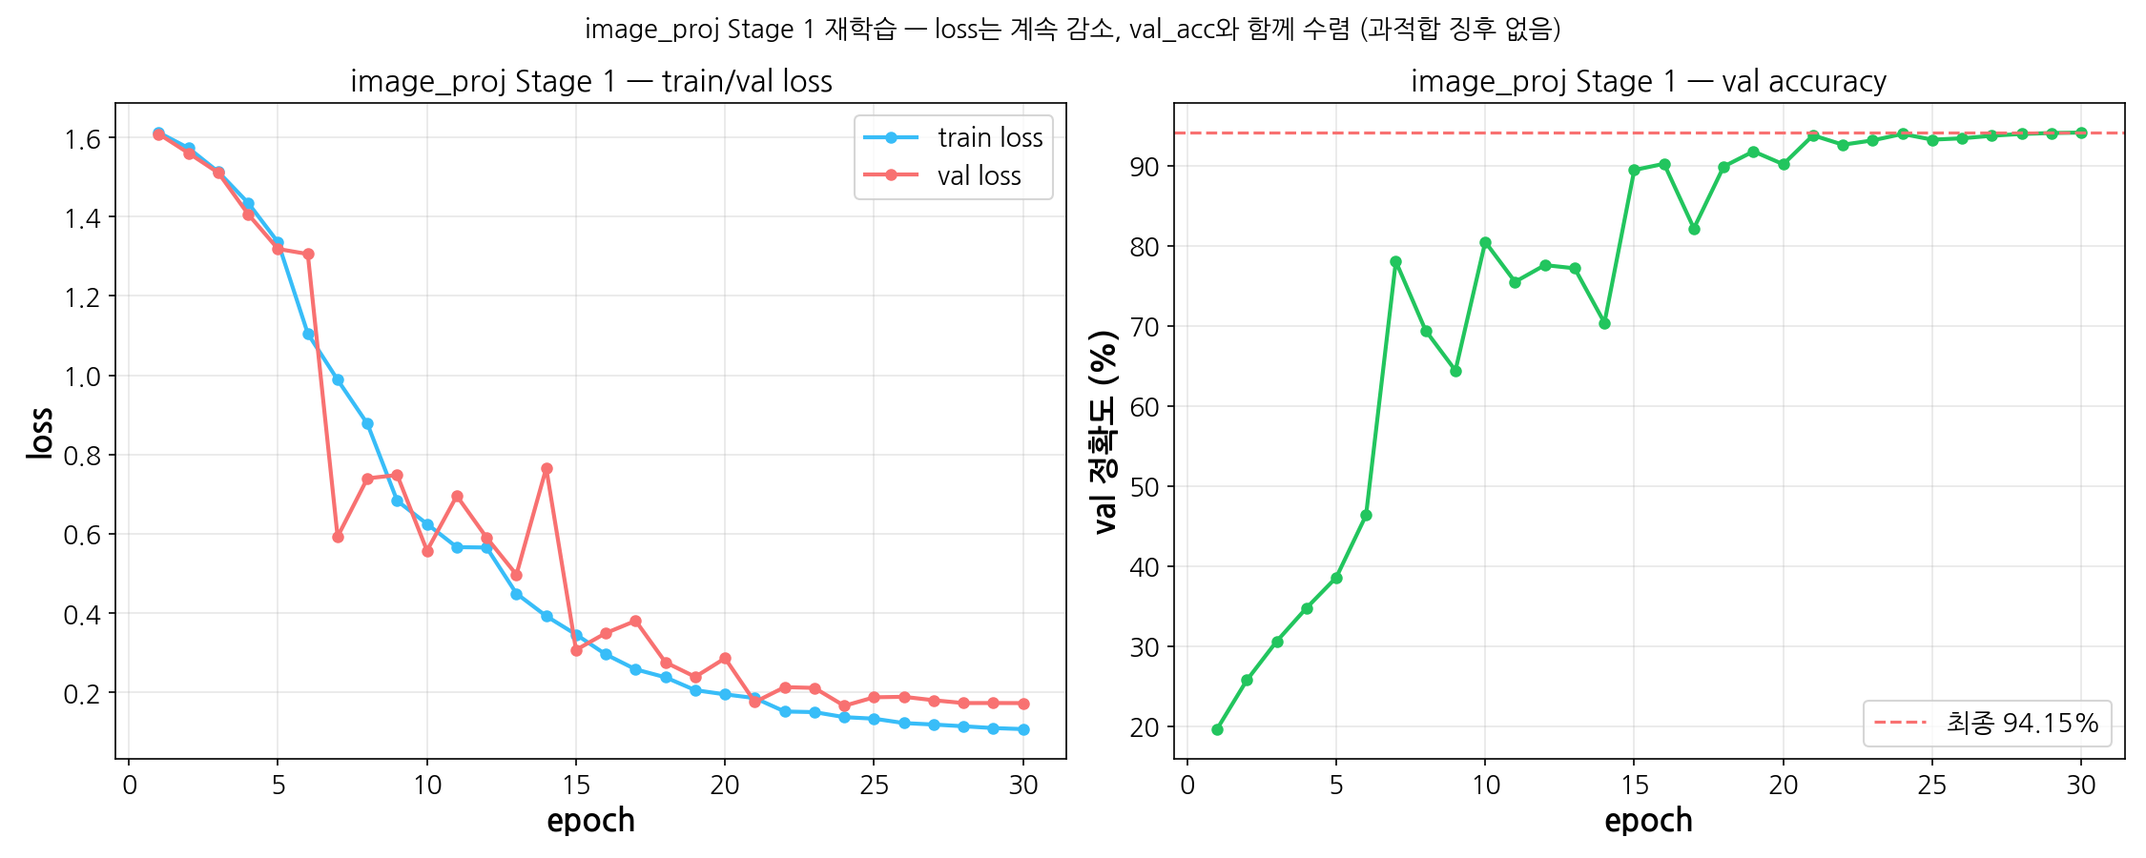
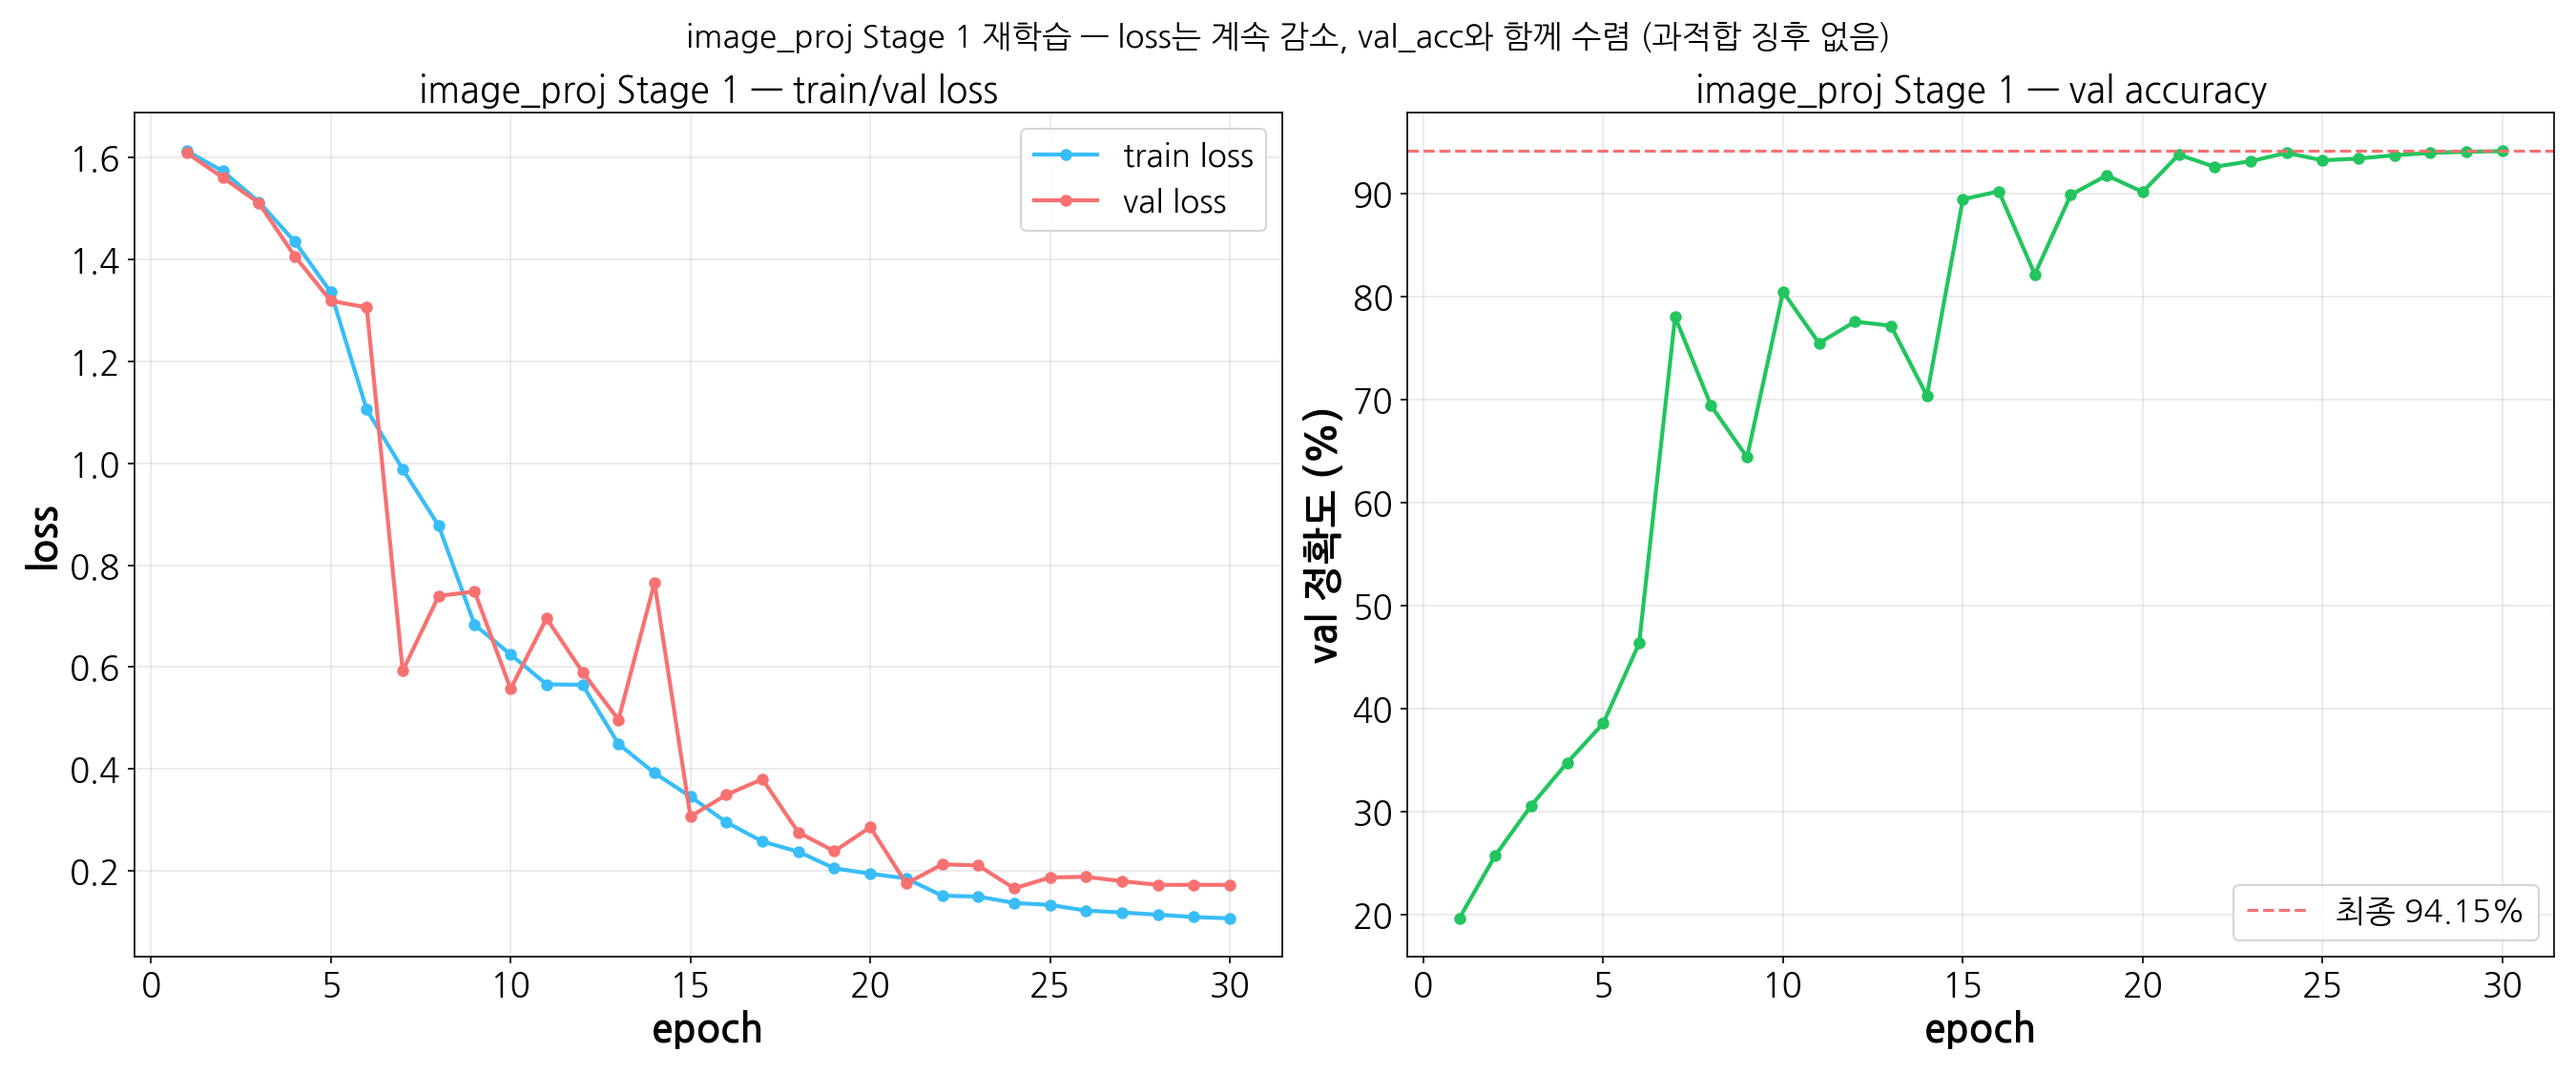
docs: enlarge fonts further on 3 figures, add direct image links in briefing
Bumped axis/tick/legend/title fonts another notch on stage1_v3_training_curve.png,
action_head_error_severity.png, and stage1_v3_loss_curve.png (all three
regenerated), and added a direct-open link under each embedded copy in
revision_briefing.html so the images can be verified outside the page.

diff --git a/scripts/plot_action_head_error_severity.py b/scripts/plot_action_head_error_severity.py
@@ -53,7 +53,7 @@ def main():
             if i != j:
                 agg_n[kind(i, j)] += int(cm[i][j])
 
-    fig = plt.figure(figsize=(15.5, 6.6))
+    fig = plt.figure(figsize=(18, 7.6))
     gs = fig.add_gridspec(1, 2, width_ratios=[1.45, 1], wspace=0.28)
 
     # ── 좌: 8x8 심각도 색칠 ──
@@ -69,16 +69,16 @@ def main():
             if v > 0:
                 bold = (i == j) or (k == "flip")
                 ax.text(j + .5, n - 1 - i + .5, str(v), ha="center", va="center",
-                        fontsize=13 if bold else 12,
+                        fontsize=16 if bold else 15,
                         fontweight="bold" if bold else "normal",
                         color="#0f172a")
     ax.set_xlim(0, n); ax.set_ylim(0, n)
-    ax.set_xticks(np.arange(n) + .5); ax.set_xticklabels(names, rotation=40, ha="right", fontsize=13)
-    ax.set_yticks(np.arange(n) + .5); ax.set_yticklabels(names[::-1], fontsize=13)
-    ax.set_xlabel("예측 (Predicted)", fontsize=16, fontweight="bold")
-    ax.set_ylabel("정답 (Ground Truth)", fontsize=16, fontweight="bold")
+    ax.set_xticks(np.arange(n) + .5); ax.set_xticklabels(names, rotation=40, ha="right", fontsize=16)
+    ax.set_yticks(np.arange(n) + .5); ax.set_yticklabels(names[::-1], fontsize=16)
+    ax.set_xlabel("예측 (Predicted)", fontsize=19, fontweight="bold")
+    ax.set_ylabel("정답 (Ground Truth)", fontsize=19, fontweight="bold")
     ax.set_title(f"val 혼동행렬 — 오류를 심각도로 구분\n정확도 {correct}/{total} = {correct/total*100:.2f}%",
-                 fontsize=15, pad=10)
+                 fontsize=18, pad=10)
     ax.set_aspect("equal")
     for s in ax.spines.values():
         s.set_visible(False)
@@ -91,7 +91,7 @@ def main():
               label=f"좌우 반전 (치명적)  {agg_n['flip']}건 · 전체의 {agg_n['flip']/total*100:.2f}%"),
         Patch(facecolor=C_STOP, edgecolor="#94a3b8",
               label=f"STOP 판정 시점 차이  {agg_n['stop']}건 · 오류의 {agg_n['stop']/err*100:.1f}%"),
-    ], loc="upper center", bbox_to_anchor=(0.5, -0.22), fontsize=11.5, frameon=False)
+    ], loc="upper center", bbox_to_anchor=(0.5, -0.22), fontsize=14.5, frameon=False)
 
     # ── 우: 3x3 축약 ──
     ax2 = fig.add_subplot(gs[1])
@@ -107,17 +107,17 @@ def main():
     for i in range(3):
         for j in range(3):
             ax2.text(j, i, f"{a[i][j]}\n{rown[i][j]*100:.1f}%", ha="center", va="center",
-                     fontsize=13, fontweight="bold" if i == j else "normal",
+                     fontsize=16, fontweight="bold" if i == j else "normal",
                      color="white" if rown[i][j] > .55 else "#0f172a")
-    ax2.set_xticks(range(3)); ax2.set_xticklabels(lab3, fontsize=10.5, rotation=15, ha="right")
-    ax2.set_yticks(range(3)); ax2.set_yticklabels(lab3, fontsize=11)
-    ax2.set_xlabel("예측", fontsize=16, fontweight="bold"); ax2.set_ylabel("정답", fontsize=16, fontweight="bold")
+    ax2.set_xticks(range(3)); ax2.set_xticklabels(lab3, fontsize=13.5, rotation=15, ha="right")
+    ax2.set_yticks(range(3)); ax2.set_yticklabels(lab3, fontsize=14)
+    ax2.set_xlabel("예측", fontsize=19, fontweight="bold"); ax2.set_ylabel("정답", fontsize=19, fontweight="bold")
     ax2.set_title(f"좌·우·중립 3방향으로 축약\n정확도 {acc3*100:.2f}%  (8-class 74.13% → +{acc3*100-74.13:.2f}%p)",
-                  fontsize=15, pad=10)
+                  fontsize=18, pad=10)
     fig.colorbar(im, ax=ax2, fraction=0.046, label="행 정규화 비율")
 
     fig.suptitle("행동 헤드 val 오류의 대부분은 '대체 가능한 행동' 혼동 — 주행을 실패시키는 좌우 반전은 전체의 2% 미만",
-                 fontsize=12.5, y=1.0)
+                 fontsize=15.5, y=1.0)
     fig.tight_layout()
     OUT.parent.mkdir(parents=True, exist_ok=True)
     fig.savefig(OUT, dpi=170, facecolor="white", bbox_inches="tight")

diff --git a/scripts/plot_stage1_v3_loss_curve.py b/scripts/plot_stage1_v3_loss_curve.py
@@ -23,27 +23,27 @@ val_loss = [h["val_loss"] for h in hist]
 val_acc = [h["val_acc"] * 100 for h in hist]
 final_acc = d["final_best_val_acc"] * 100
 
-fig, (ax1, ax2) = plt.subplots(1, 2, figsize=(15, 6))
+fig, (ax1, ax2) = plt.subplots(1, 2, figsize=(18, 7.5))
 
 ax1.plot(epochs, train_loss, "o-", color="#38bdf8", label="train loss", linewidth=2, markersize=5)
 ax1.plot(epochs, val_loss, "o-", color="#f87171", label="val loss", linewidth=2, markersize=5)
-ax1.set_xlabel("epoch", fontsize=16, fontweight="bold")
-ax1.set_ylabel("loss", fontsize=16, fontweight="bold")
-ax1.set_title("image_proj Stage 1 — train/val loss", fontsize=15)
-ax1.tick_params(axis="both", labelsize=13)
-ax1.legend(fontsize=13)
+ax1.set_xlabel("epoch", fontsize=20, fontweight="bold")
+ax1.set_ylabel("loss", fontsize=20, fontweight="bold")
+ax1.set_title("image_proj Stage 1 — train/val loss", fontsize=18)
+ax1.tick_params(axis="both", labelsize=17)
+ax1.legend(fontsize=16)
 ax1.grid(True, alpha=0.3)
 
 ax2.plot(epochs, val_acc, "o-", color="#22c55e", linewidth=2, markersize=5)
 ax2.axhline(final_acc, color="#f87171", linestyle="--", linewidth=1.5, label=f"최종 {final_acc:.2f}%")
-ax2.set_xlabel("epoch", fontsize=16, fontweight="bold")
-ax2.set_ylabel("val 정확도 (%)", fontsize=16, fontweight="bold")
-ax2.set_title("image_proj Stage 1 — val accuracy", fontsize=15)
-ax2.tick_params(axis="both", labelsize=13)
-ax2.legend(fontsize=13, loc="lower right")
+ax2.set_xlabel("epoch", fontsize=20, fontweight="bold")
+ax2.set_ylabel("val 정확도 (%)", fontsize=20, fontweight="bold")
+ax2.set_title("image_proj Stage 1 — val accuracy", fontsize=18)
+ax2.tick_params(axis="both", labelsize=17)
+ax2.legend(fontsize=16, loc="lower right")
 ax2.grid(True, alpha=0.3)
 
-fig.suptitle("image_proj Stage 1 재학습 — loss는 계속 감소, val_acc와 함께 수렴 (과적합 징후 없음)", fontsize=13)
+fig.suptitle("image_proj Stage 1 재학습 — loss는 계속 감소, val_acc와 함께 수렴 (과적합 징후 없음)", fontsize=16)
 fig.tight_layout()
 fig.savefig(OUT, dpi=150)
 print("wrote", OUT)

diff --git a/scripts/plot_stage1_v3_training_curve.py b/scripts/plot_stage1_v3_training_curve.py
@@ -21,16 +21,16 @@ final = best[-1]
 
 plt.rcParams["font.family"] = "NanumGothic"
 plt.rcParams["axes.unicode_minus"] = False
-plt.rcParams.update({"font.size": 15})
-fig, ax = plt.subplots(figsize=(11, 6.5))
+plt.rcParams.update({"font.size": 20})
+fig, ax = plt.subplots(figsize=(13, 7.5))
 ax.plot(epochs, val_acc, "o-", color="#38bdf8", label="epoch별 val_acc", linewidth=2, markersize=6)
 ax.plot(epochs, best, "-", color="#22c55e", label="best (누적 최고)", linewidth=3)
 ax.axhline(final, color="#f87171", linestyle="--", linewidth=1.5, label=f"최종 {final:.2f}%")
-ax.set_xlabel("epoch", fontsize=18, fontweight="bold")
-ax.set_ylabel("val 정확도 (%)", fontsize=18, fontweight="bold")
-ax.set_title("image_proj Stage 1 학습 곡선 (5-class, 225ep 체크포인트, 30 epoch 로그)", fontsize=15)
-ax.tick_params(axis="both", labelsize=14)
-ax.legend(fontsize=14, loc="lower right")
+ax.set_xlabel("epoch", fontsize=24, fontweight="bold")
+ax.set_ylabel("val 정확도 (%)", fontsize=24, fontweight="bold")
+ax.set_title("image_proj Stage 1 학습 곡선 (5-class, 225ep 체크포인트, 30 epoch 로그)", fontsize=19)
+ax.tick_params(axis="both", labelsize=18)
+ax.legend(fontsize=17, loc="lower right")
 ax.grid(True, alpha=0.3)
 fig.tight_layout()
 fig.savefig(OUT, dpi=150)
